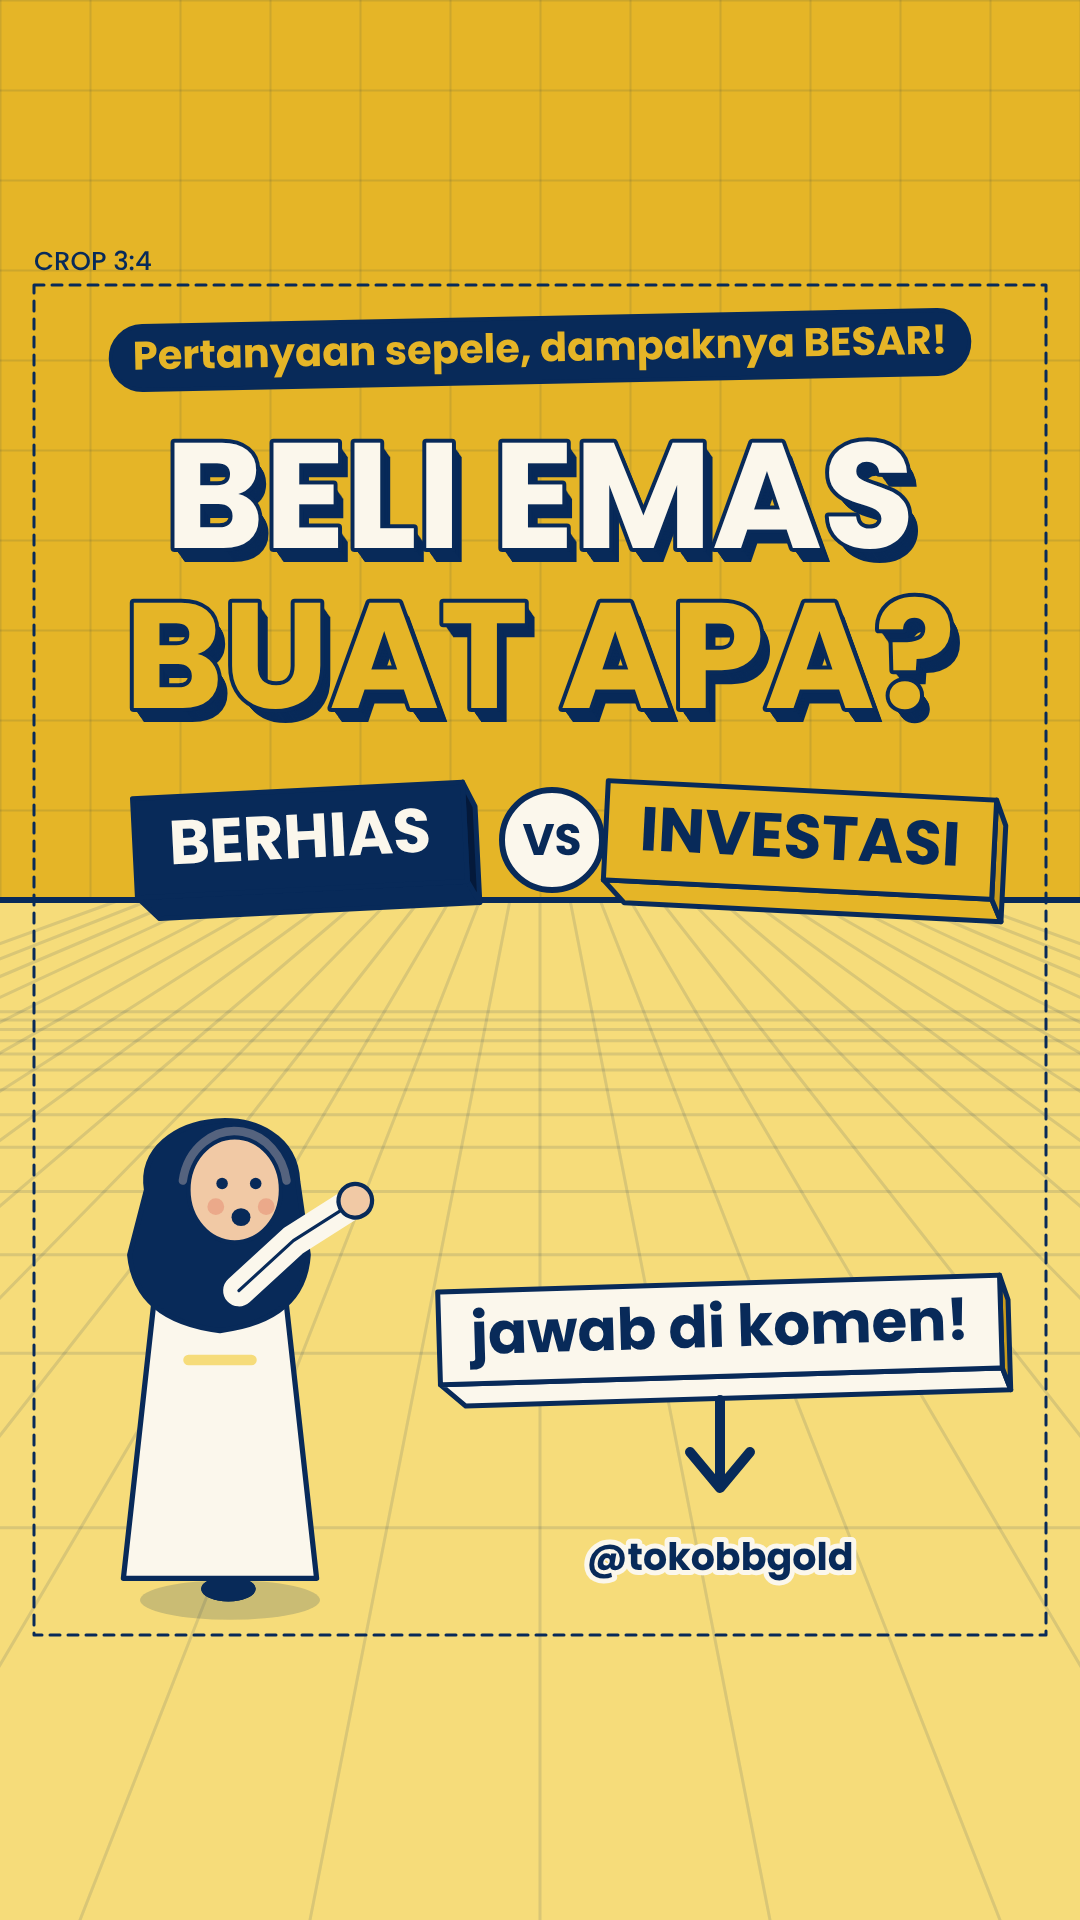
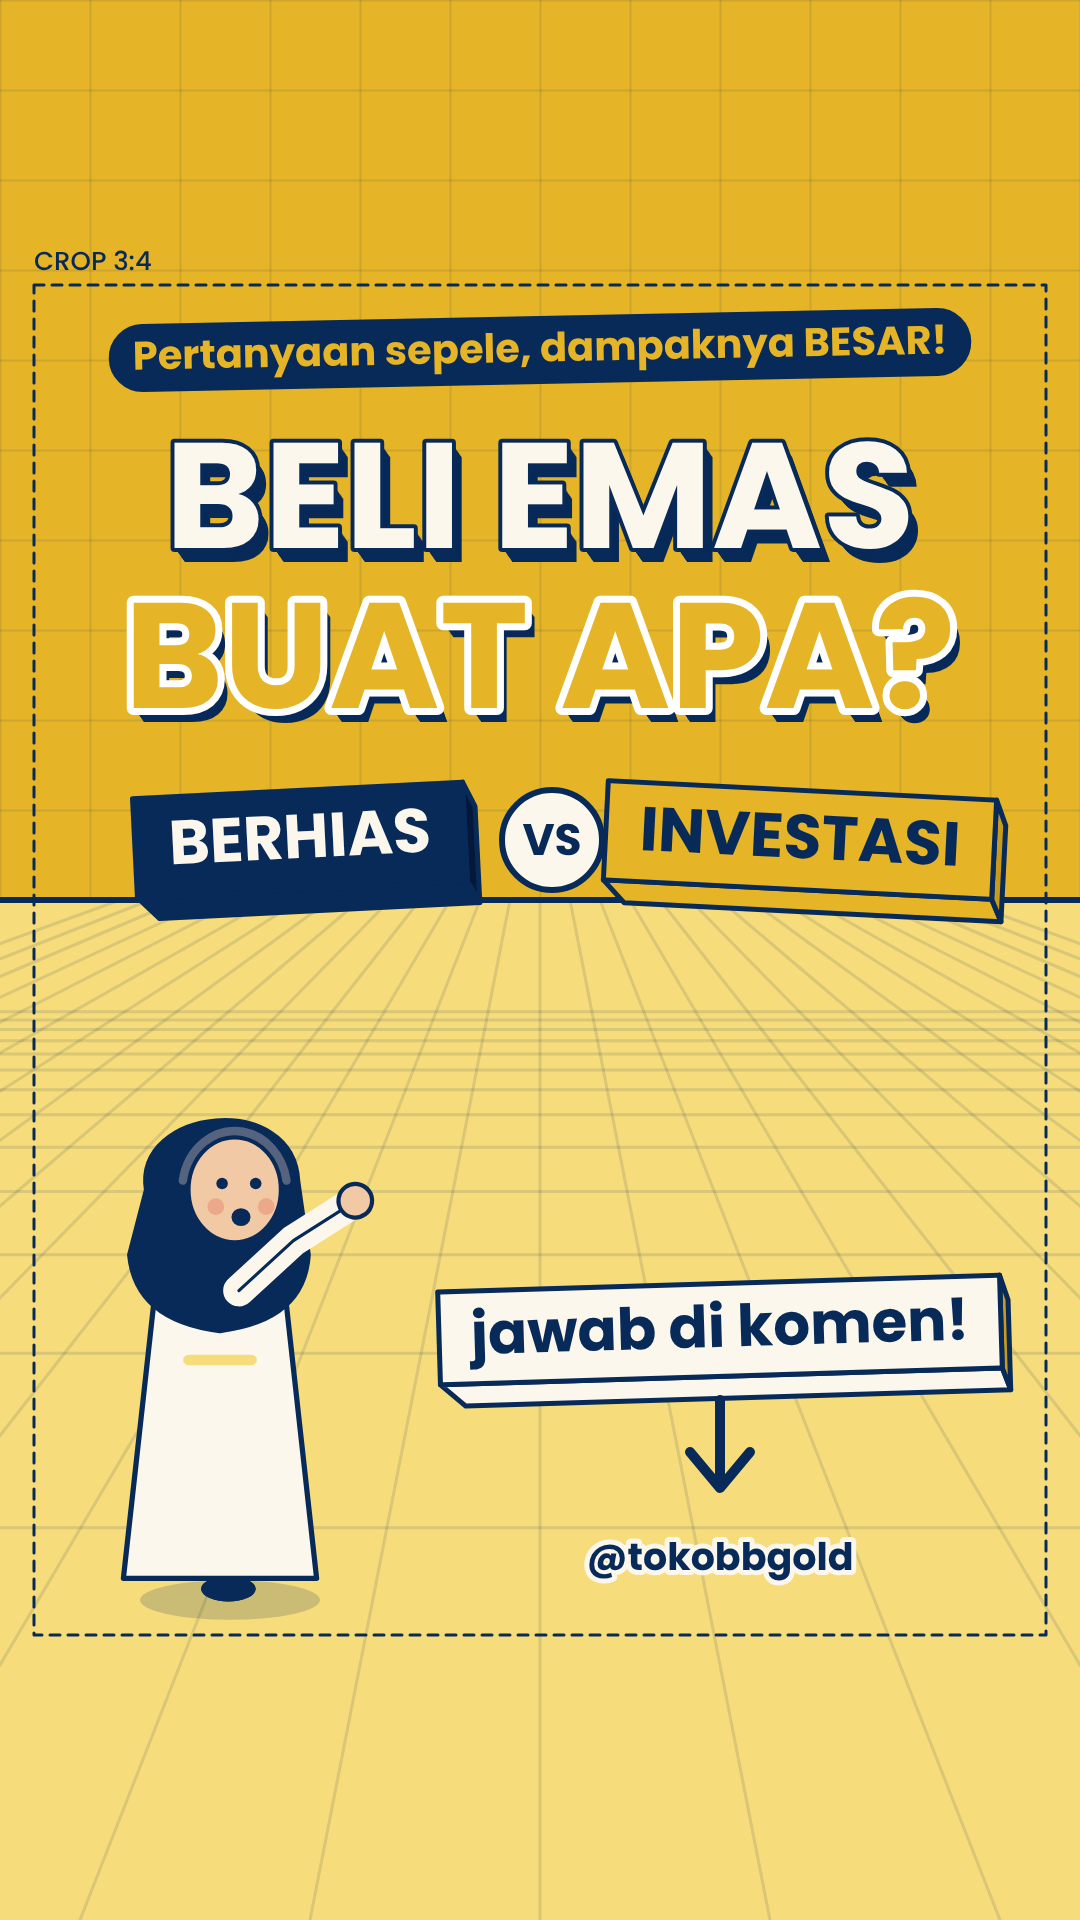
Cover tim mana: garis putih pada BUAT APA? supaya jelas
Claude-Session: https://claude.ai/code/session_01A66KqLmuH4SbiCwxB5x5ub

Changed region(s): [[0.0917, 0.3125, 0.4889, 0.375], [0.5194, 0.2812, 0.8861, 0.375]]

diff --git a/bbgold-reels/tim-mana/jalan25.js b/bbgold-reels/tim-mana/jalan25.js
@@ -359,16 +359,16 @@ export async function boot(dataPath) {
   }
 
   // ---- Cover ----
-  function teks3d(s, x, y, size, depan, sisi, tebal = 12) {
+  function teks3d(s, x, y, size, depan, sisi, tebal = 12, garis = B, gw = 8) {
     g.font = `700 ${size}px Poppins`; g.textAlign = "center"; g.textBaseline = "middle";
     for (let i = tebal; i > 0; i--) { g.fillStyle = sisi; g.fillText(s, x + i * 0.7, y + i); }
-    g.lineJoin = "round"; g.strokeStyle = B; g.lineWidth = 8; g.strokeText(s, x, y); g.fillStyle = depan; g.fillText(s, x, y);
+    g.lineJoin = "round"; g.strokeStyle = garis; g.lineWidth = gw; g.strokeText(s, x, y); g.fillStyle = depan; g.fillText(s, x, y);
   }
   function drawCover(t) {
     langit(); lantai();
     g.save(); g.translate(540, 350); g.rotate(-0.02); pill("Pertanyaan sepele, dampaknya BESAR!", 0, 0, 40, B, M); g.restore();
     teks3d("BELI EMAS", 540, 510, 150, K, B, 14);
-    teks3d("BUAT APA?", 540, 670, 150, M, B, 14);
+    teks3d("BUAT APA?", 540, 670, 150, M, B, 14, "#FFFFFF", 14);
     tanda("BERHIAS", 300, 840, 62, B, K, -0.05);
     tanda("INVESTASI", 800, 840, 62, M, B, 0.05);
     circle(552, 840, 50, K, B, 6); text("VS", 552, 844, 44, B);
